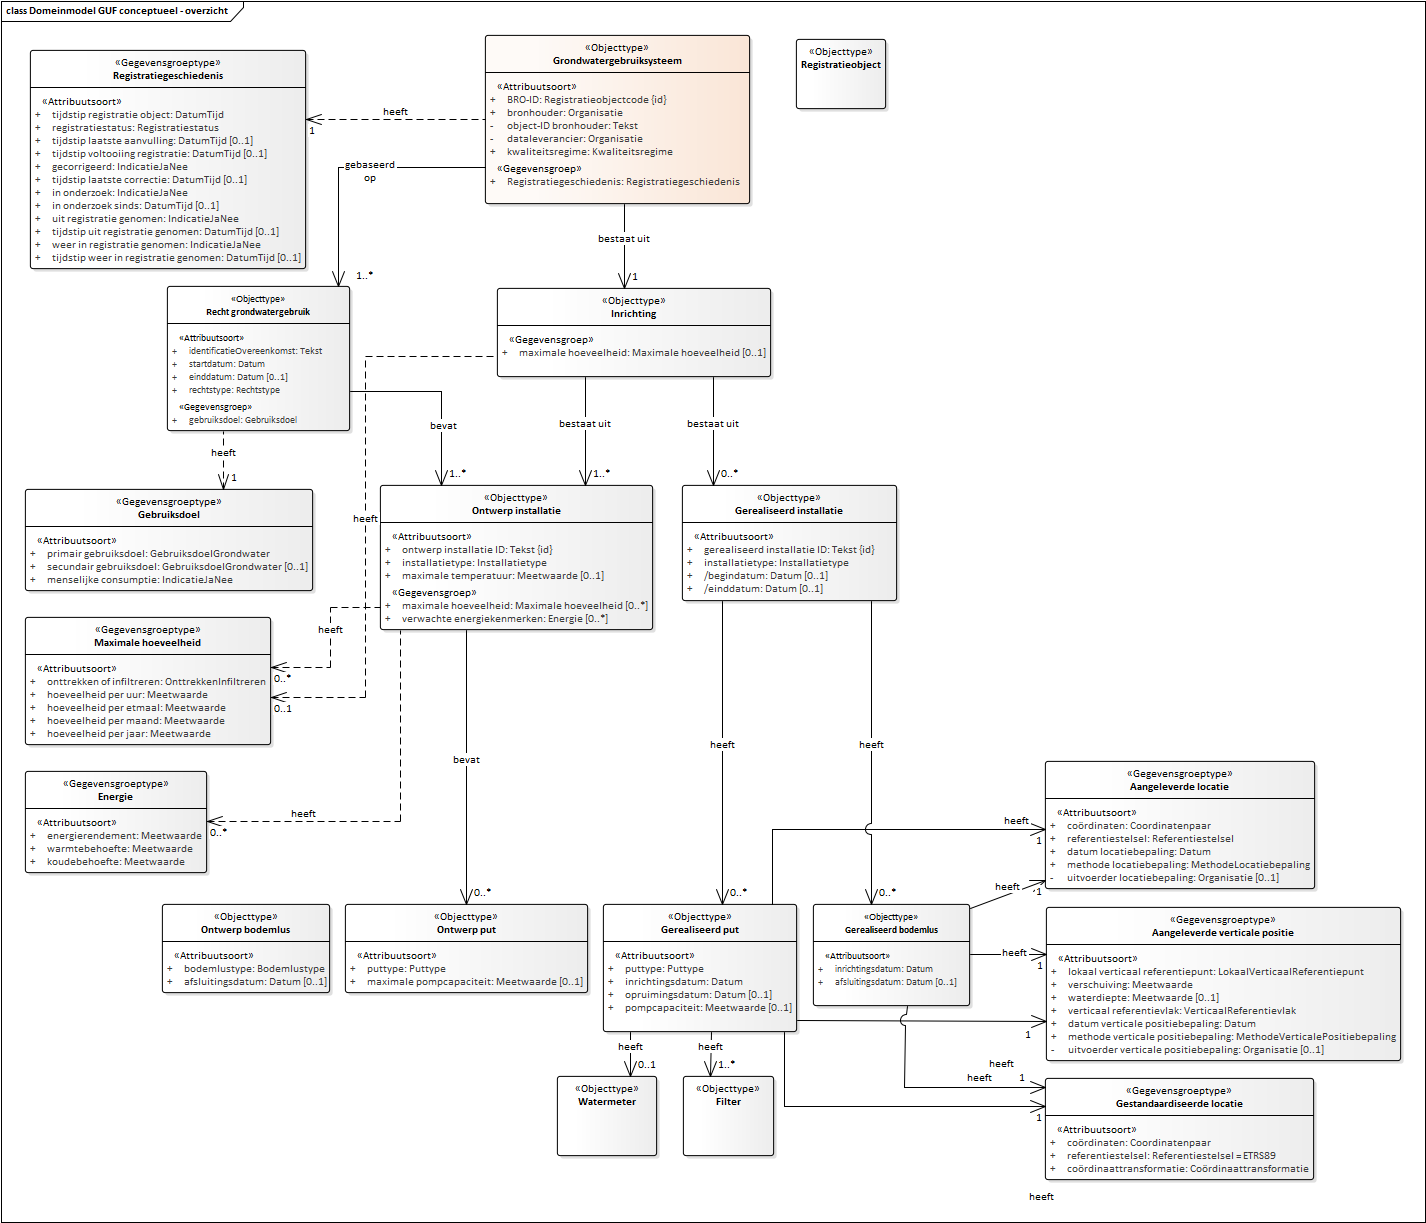
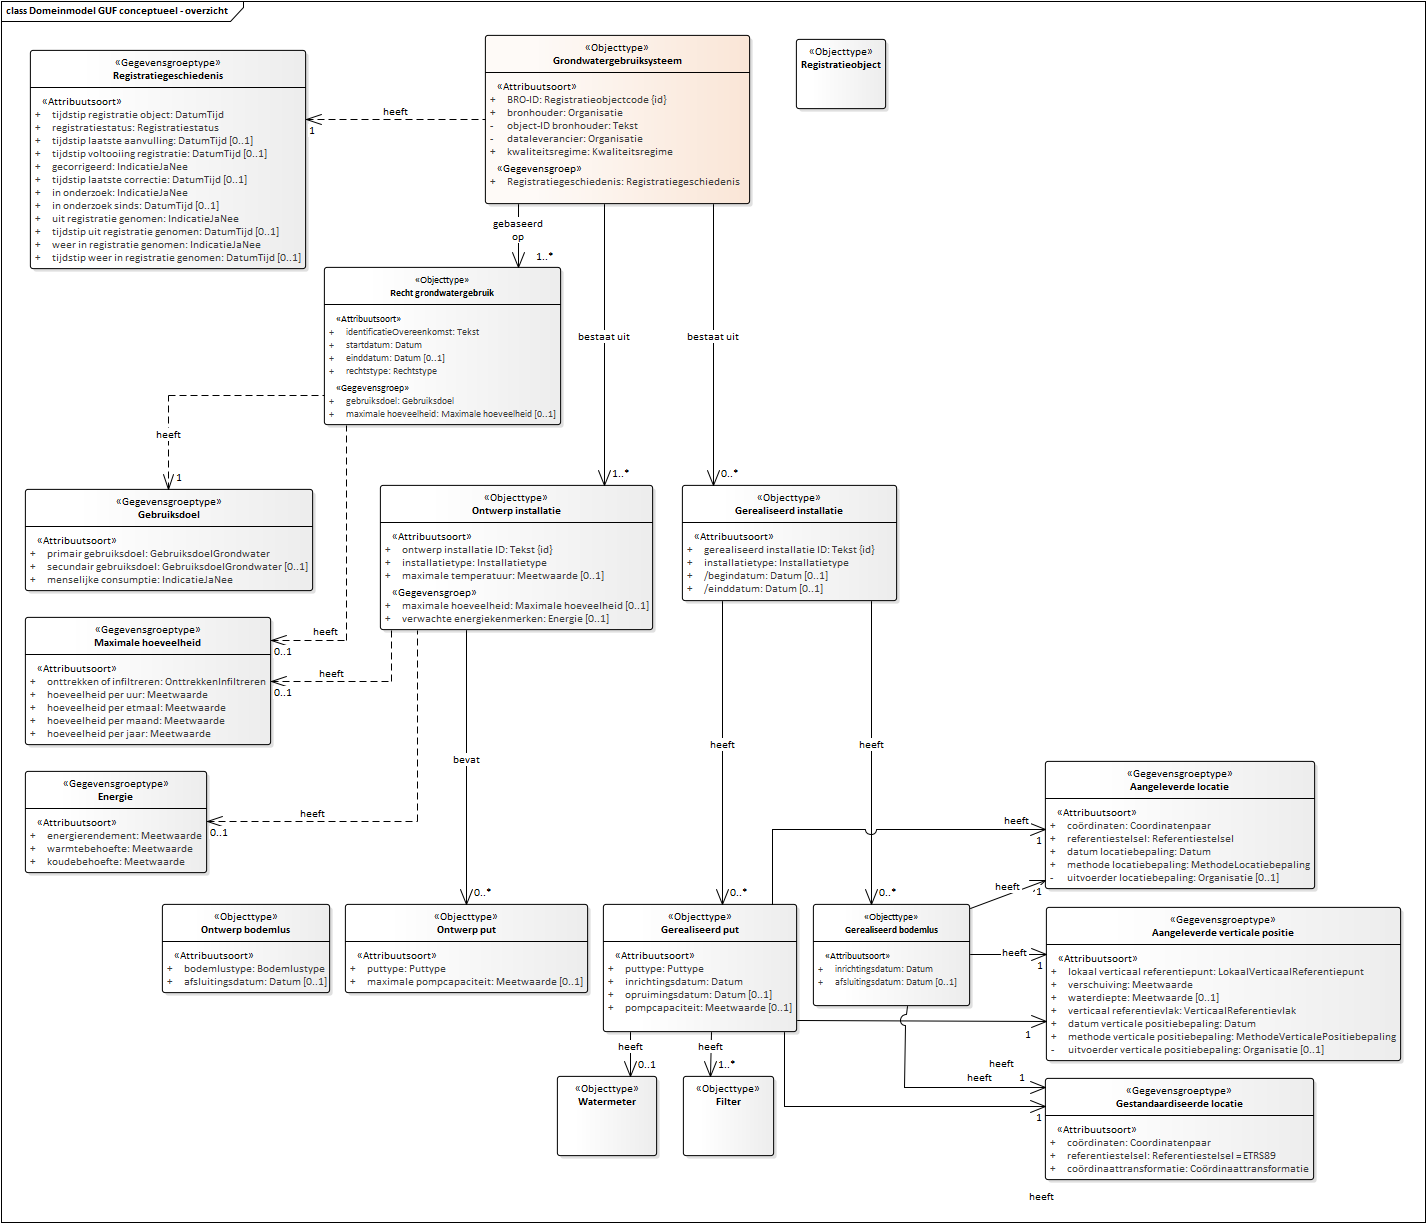
Conceptualmodel-GrondwatergebruikGUFconceptueel-0.1-1-20200401-20201016-083701

diff --git a/data/GUF-cat.msword.html b/data/GUF-cat.msword.html
@@ -15,7 +15,7 @@
    <body>
       <p>Conceptual model/Grondwatergebruik (GUF) conceptueel/20200401</p>
       <p>Imvertor: 1.61.3</p>
-      <p>Model release: Conceptualmodel-GrondwatergebruikGUFconceptueel-0.1-1-20200401-20201013-171815</p>
+      <p>Model release: Conceptualmodel-GrondwatergebruikGUFconceptueel-0.1-1-20200401-20201016-083701</p>
       <hr>
       <section>
          <h1>Artikel 1 Definitie van registratieobject, entiteiten en attributen</h1>
@@ -62,7 +62,7 @@
          <section>
             <h2>Het domeinmodel</h2>
             <section id="">
-               <div class="imageinfo overview"><img src="Images/EAID_56F5F935_4109_4da0_A034_9EA7B40769E1.png" usemap="#imagemap-EAID_56F5F935_4109_4da0_A034_9EA7B40769E1" alt="Diagram "><map name="imagemap-EAID_56F5F935_4109_4da0_A034_9EA7B40769E1"><area shape="rect" alt="Ontwerp bodemlus" coords="162,904,330,993" href="#graph_EAID_B81BCB5C_B9C7_42d9_9F9E_3F76580BB410"><area shape="rect" alt="Ontwerp put" coords="345,904,588,993" href="#graph_EAID_FC483397_9430_4114_AE54_A7BE5A654EA9"><area shape="rect" alt="Energie" coords="25,771,207,873" href="#graph_EAID_F60FFCA9_A741_4d37_8DFE_FC87122B9777"><area shape="rect" alt="Maximale hoeveelheid" coords="25,617,271,745" href="#graph_EAID_D88F2231_8D52_4bac_AE7F_55102360A23B"><area shape="rect" alt="Gebruiksdoel" coords="25,489,313,591" href="#graph_EAID_DB9B3E32_EE42_4c47_A5CC_5AE7B58A2D13"><area shape="rect" alt="Inrichting" coords="497,288,771,377" href="#graph_EAID_FA614186_4D53_4fea_978C_DD8991CA0CF9"><area shape="rect" alt="Gerealiseerd installatie" coords="682,485,897,601" href="#graph_EAID_45C4EF5D_AC27_47cc_926D_7F514776B53D"><area shape="rect" alt="Gestandaardiseerde locatie" coords="1045,1078,1314,1180" href="#graph_EAID_7F1D92D4_092C_4272_8CA2_89F93EA3F12E"><area shape="rect" alt="Aangeleverde verticale positie" coords="1046,907,1401,1061" href="#graph_EAID_6AA525F0_F1B6_4471_96BE_E1DEF2FCC704"><area shape="rect" alt="Watermeter" coords="557,1076,657,1156" href="#graph_EAID_4A487037_0E94_4ee8_81A8_2355D11DE89F"><area shape="rect" alt="Filter" coords="683,1076,774,1156" href="#graph_EAID_9D151445_53ED_4738_9920_071518BB50C1"><area shape="rect" alt="Recht grondwatergebruik" coords="167,286,350,431" href="#graph_EAID_1A591F8A_2ECC_4122_86C9_26BFA5C5420E"><area shape="rect" alt="Gerealiseerd put" coords="603,904,797,1032" href="#graph_EAID_F75BA1C9_02EB_48e6_B9A8_A018120E2279"><area shape="rect" alt="Gerealiseerd bodemlus" coords="813,904,970,1006" href="#graph_EAID_D45703EE_CCD5_434c_A478_BFA48D1A9DCB"><area shape="rect" alt="Ontwerp installatie" coords="380,485,653,630" href="#graph_EAID_DB2636FB_090C_4af0_AA40_4301B23795E2"><area shape="rect" alt="Registratiegeschiedenis" coords="30,50,306,269" href="#graph_EAID_C00FA7D7_7F78_413d_80CC_8F5D41996171"><area shape="rect" alt="Aangeleverde locatie" coords="1045,761,1315,889" href="#graph_EAID_FA55712E_2710_4bb3_A08E_6B62C39189F5"><area shape="rect" alt="Grondwatergebruiksysteem" coords="485,35,750,204" href="#graph_EAID_048DC684_486B_4605_B9CA_40413DB3C9DC"><area shape="rect" alt="Registratieobject" coords="796,39,886,109" href="#graph_EAID_2AC7632D_D0CE_4468_8510_855B506BE12A"></map><p><b>Domeinmodel GUF conceptueel</b></p>
+               <div class="imageinfo overview"><img src="Images/EAID_56F5F935_4109_4da0_A034_9EA7B40769E1.png" usemap="#imagemap-EAID_56F5F935_4109_4da0_A034_9EA7B40769E1" alt="Diagram "><map name="imagemap-EAID_56F5F935_4109_4da0_A034_9EA7B40769E1"><area shape="rect" alt="Ontwerp bodemlus" coords="162,904,330,993" href="#graph_EAID_B81BCB5C_B9C7_42d9_9F9E_3F76580BB410"><area shape="rect" alt="Ontwerp put" coords="345,904,588,993" href="#graph_EAID_FC483397_9430_4114_AE54_A7BE5A654EA9"><area shape="rect" alt="Energie" coords="25,771,207,873" href="#graph_EAID_F60FFCA9_A741_4d37_8DFE_FC87122B9777"><area shape="rect" alt="Maximale hoeveelheid" coords="25,617,271,745" href="#graph_EAID_D88F2231_8D52_4bac_AE7F_55102360A23B"><area shape="rect" alt="Gebruiksdoel" coords="25,489,313,591" href="#graph_EAID_DB9B3E32_EE42_4c47_A5CC_5AE7B58A2D13"><area shape="rect" alt="Gerealiseerd installatie" coords="682,485,897,601" href="#graph_EAID_45C4EF5D_AC27_47cc_926D_7F514776B53D"><area shape="rect" alt="Gestandaardiseerde locatie" coords="1045,1078,1314,1180" href="#graph_EAID_7F1D92D4_092C_4272_8CA2_89F93EA3F12E"><area shape="rect" alt="Aangeleverde verticale positie" coords="1046,907,1401,1061" href="#graph_EAID_6AA525F0_F1B6_4471_96BE_E1DEF2FCC704"><area shape="rect" alt="Watermeter" coords="557,1076,657,1156" href="#graph_EAID_4A487037_0E94_4ee8_81A8_2355D11DE89F"><area shape="rect" alt="Filter" coords="683,1076,774,1156" href="#graph_EAID_9D151445_53ED_4738_9920_071518BB50C1"><area shape="rect" alt="Recht grondwatergebruik" coords="324,267,561,425" href="#graph_EAID_1A591F8A_2ECC_4122_86C9_26BFA5C5420E"><area shape="rect" alt="Gerealiseerd put" coords="603,904,797,1032" href="#graph_EAID_F75BA1C9_02EB_48e6_B9A8_A018120E2279"><area shape="rect" alt="Gerealiseerd bodemlus" coords="813,904,970,1006" href="#graph_EAID_D45703EE_CCD5_434c_A478_BFA48D1A9DCB"><area shape="rect" alt="Ontwerp installatie" coords="380,485,653,630" href="#graph_EAID_DB2636FB_090C_4af0_AA40_4301B23795E2"><area shape="rect" alt="Registratiegeschiedenis" coords="30,50,306,269" href="#graph_EAID_C00FA7D7_7F78_413d_80CC_8F5D41996171"><area shape="rect" alt="Aangeleverde locatie" coords="1045,761,1315,889" href="#graph_EAID_FA55712E_2710_4bb3_A08E_6B62C39189F5"><area shape="rect" alt="Grondwatergebruiksysteem" coords="485,35,750,204" href="#graph_EAID_048DC684_486B_4605_B9CA_40413DB3C9DC"><area shape="rect" alt="Registratieobject" coords="796,39,886,109" href="#graph_EAID_2AC7632D_D0CE_4468_8510_855B506BE12A"></map><p><b>Domeinmodel GUF conceptueel</b></p>
                </div>
             </section>
          </section>
@@ -84,6 +84,13 @@
                               
                               <p>De gegevens die het grondwatergebruiksysteem identificeren en inzicht geven in de
                                  geschiedenis van het object voorafgaand aan opname in de registratie ondergrond. </p>
+                              </td>
+                        </tr>
+                        <tr>
+                           <th>Toelichting</th>
+                           <td>
+                              
+                              <p>Een grondwatergebruiksysteem wordt ook wel een inrichitng genoemd.</p>
                               </td>
                         </tr>
                      </tbody>
@@ -917,18 +924,6 @@
                         </tbody>
                      </table>
                      </section>
-               </section><a class="anchor" id="graph_EAID_FA614186_4D53_4fea_978C_DD8991CA0CF9"></a><a class="anchor" id="global_class_Model_Inrichting"></a><section id="global_class_Model_Inrichting">
-                  <h3>   Inrichting</h3>
-                  <table style="width: 100%;">
-                     <colgroup style="width: 30%;"></colgroup>
-                     <colgroup style="width: 70%;"></colgroup>
-                     <tbody>
-                        <tr>
-                           <th>Type gegeven</th>
-                           <td>Entiteit</td>
-                        </tr>
-                     </tbody>
-                  </table>
                </section><a class="anchor" id="graph_EAID_DB2636FB_090C_4af0_AA40_4301B23795E2"></a><a class="anchor" id="global_class_Model_Ontwerpinstallatie"></a><section id="global_class_Model_Ontwerpinstallatie">
                   <h3>   Ontwerp installatie</h3>
                   <table style="width: 100%;">
@@ -2416,6 +2411,14 @@
                            <th>Type gegeven</th>
                            <td>Entiteit</td>
                         </tr>
+                        <tr>
+                           <th>Definitie</th>
+                           <td>
+                              
+                              <p>TODO Vaak is sprake van 1 filter met vershcillende fiterdelen. wenselijk is om alle
+                                 filter delen te registreren</p>
+                              </td>
+                        </tr>
                      </tbody>
                   </table>
                </section><a class="anchor" id="graph_EAID_4A487037_0E94_4ee8_81A8_2355D11DE89F"></a><a class="anchor" id="global_class_Model_Watermeter"></a><section id="global_class_Model_Watermeter">
@@ -2906,7 +2909,7 @@
                            </tr>
                            <tr>
                               <th>&nbsp;&nbsp;Eenheid</th>
-                              <td>m3</td>
+                              <td>m<sup>3</sup> (kubieke meter)</td>
                            </tr>
                         </tbody>
                      </table>
@@ -2948,7 +2951,7 @@
                            </tr>
                            <tr>
                               <th>&nbsp;&nbsp;Eenheid</th>
-                              <td>m3</td>
+                              <td>m<sup>3</sup> (kubieke meter)</td>
                            </tr>
                         </tbody>
                      </table>
@@ -2990,7 +2993,7 @@
                            </tr>
                            <tr>
                               <th>&nbsp;&nbsp;Eenheid</th>
-                              <td>m3</td>
+                              <td>m<sup>3</sup> (kubieke meter)</td>
                            </tr>
                         </tbody>
                      </table>
@@ -3032,7 +3035,7 @@
                            </tr>
                            <tr>
                               <th>&nbsp;&nbsp;Eenheid</th>
-                              <td>m3</td>
+                              <td>m<sup>3</sup> (kubieke meter)</td>
                            </tr>
                         </tbody>
                      </table>
